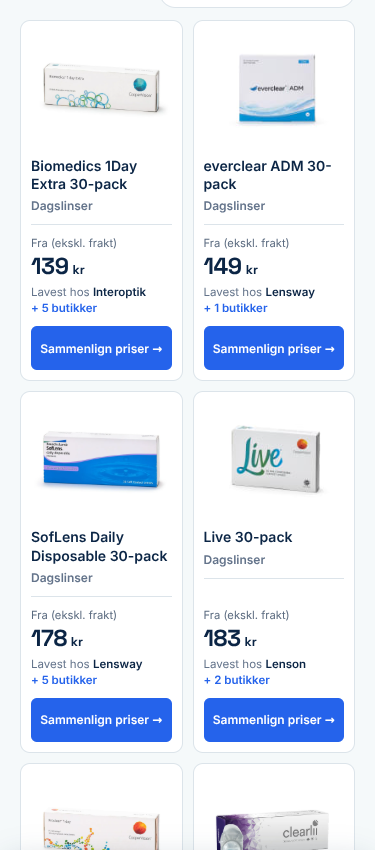
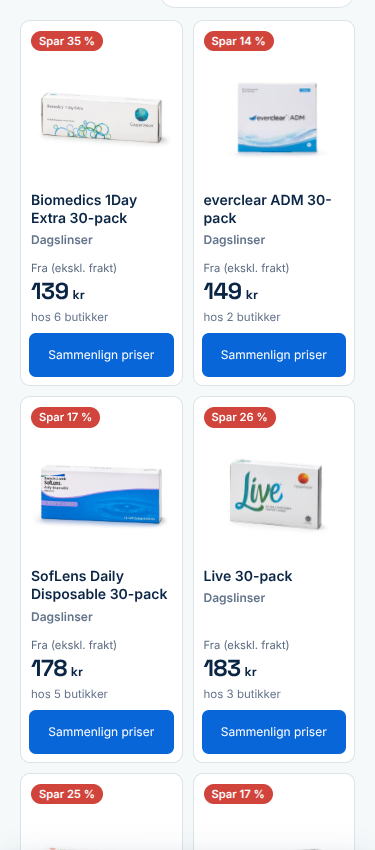
Match reference buttons, store counts and verified mobile savings

Changed region(s): [[0.0587, 0.0306, 0.4693, 1.0], [0.528, 0.0306, 0.9387, 1.0], [0.352, 0.9482, 0.44, 1.0]]

diff --git a/site_generator/render_templates.py b/site_generator/render_templates.py
@@ -406,7 +406,7 @@ a { color: inherit; }
   .topbar, .footer-inner, .footer-disclosure, .footer-bottom { max-width: 1280px; }
 }
 .product-tile-grid { display: grid; grid-template-columns: repeat(auto-fill, minmax(230px, 1fr)); gap: 18px; margin-bottom: 8px; }
-.product-tile { display: flex; flex-direction: column; background: white; border: 1px solid var(--border); border-radius: 16px; overflow: hidden; box-shadow: 0 6px 18px rgba(11, 37, 69, 0.06); transition: transform 0.18s ease, box-shadow 0.18s ease, border-color 0.18s ease; }
+.product-tile { position: relative; display: flex; flex-direction: column; background: white; border: 1px solid var(--border); border-radius: 16px; overflow: hidden; box-shadow: 0 6px 18px rgba(11, 37, 69, 0.06); transition: transform 0.18s ease, box-shadow 0.18s ease, border-color 0.18s ease; }
 .product-tile:hover { transform: translateY(-3px); border-color: #B9C9DD; box-shadow: 0 10px 28px rgba(11, 37, 69, 0.11); }
 .product-tile-image-link { display: block; text-decoration: none; }
 .product-tile-image { height: 190px; margin: 14px 14px 0; border-radius: 12px; background: var(--mist); display: flex; align-items: center; justify-content: center; overflow: hidden; }
@@ -433,26 +433,30 @@ a { color: inherit; }
 .product-tile-store-count { color: var(--blue); font-weight: 700; }
 .product-tile-cta { display: block; margin: 16px 18px 18px; padding: 12px 16px; background: var(--blue); color: white; text-decoration: none; text-align: center; font-size: 0.9rem; font-weight: 700; border-radius: 9px; transition: background 0.15s; }
 .product-tile:hover .product-tile-cta { background: var(--blue-dark); }
+.product-tile-savings { display: none; }
 /* Mobile product lists: reference 003, two cards per row. Keep full names
    and native links; no line clamping or JavaScript-dependent content. */
 @media (max-width: 600px) {
   .product-tile-grid { grid-template-columns: repeat(2, minmax(0, 1fr)); gap: 10px; }
   .product-tile { min-width: 0; border-radius: 10px; box-shadow: none; }
-  .product-tile-image { height: 118px; margin: 8px 8px 0; border-radius: 6px; background: white; }
+  .product-tile-image { height: 126px; margin: 34px 5px 0; border-radius: 6px; background: white; }
   .product-tile-image.has-photo { background: white; }
-  .product-tile-image img { width: 100%; max-height: 110px; }
+  .product-tile-image img { width: 100%; max-height: 126px; }
   .product-tile-body { padding: 10px 10px 0; min-width: 0; }
   .product-tile-name-link { order: -2; overflow-wrap: anywhere; }
   .product-tile-name-link .product-name { font-size: .875rem; line-height: 1.3; min-height: 0; }
   .product-tile-category { order: -1; background: none; color: var(--muted); padding: 0; margin: 5px 0 0; font-size: .75rem; line-height: 1.35; text-transform: none; letter-spacing: 0; }
   .product-tile-manufacturer[href^="/produsent/"], .product-tile-manufacturer[href^="/merke/"], .product-tile-specs-row { display: none; }
-  .product-tile-divider { margin: 10px 0; }
+  .product-tile-divider { height: 0; margin: 12px 0 0; }
   .product-tile-price-label { font-size: .7rem; }
   .product-tile-price-number { font-size: 1.45rem; }
   .product-tile-price-currency { font-size: .8rem; }
   .product-tile-store-line { font-size: .72rem; line-height: 1.4; margin-top: 5px; overflow-wrap: anywhere; }
-  .product-tile-store-count { display: block; }
-  .product-tile-cta { display: flex; align-items: center; justify-content: center; min-height: 44px; box-sizing: border-box; margin: 10px; padding: 8px 4px; font-size: .75rem; line-height: 1.3; border-radius: 6px; }
+  .product-tile:hover .product-tile-cta { background: #0759bf; }
+  .product-tile-savings { display: inline-block; position: absolute; top: 10px; left: 10px; padding: 4px 8px; border-radius: 999px; background: #d0443b; color: #fff; font-size: .7rem; font-weight: 700; line-height: 1.1; cursor: help; }
+  .product-tile-savings:focus-visible { outline: 2px solid var(--ink); outline-offset: 2px; }
+  .product-tile-savings:hover::after, .product-tile-savings:focus::after { content: attr(data-explanation); position: absolute; z-index: 3; top: calc(100% + 6px); left: 0; width: 120px; box-sizing: border-box; padding: 8px; border-radius: 6px; background: var(--ink); color: white; font-size: .7rem; font-weight: 400; line-height: 1.4; }
+  .product-tile-cta { display: flex; align-items: center; justify-content: center; min-height: 44px; box-sizing: border-box; margin: 8px; padding: 8px 4px; font-size: .75rem; font-weight: 500; line-height: 1.3; border-radius: 7px; background: #0866d9; }
 }
 .faq-section { margin-top: 36px; border-top: 1px solid var(--border); padding-top: 24px; }
 .faq-section h2 { font-family: 'Space Grotesk', sans-serif; font-size: 1.1rem; margin: 0 0 16px; }
@@ -2757,7 +2761,8 @@ def _fmt_kr(n: float) -> str:
 def _render_product_tile(*, href: str, name: str, image_url: str | None, fallback_initials: str,
                           category_label: str | None, secondary_line_html: str,
                           lowest: dict | None, other_count: int, data_attr: str = "",
-                          illustration_html: str | None = None, specs_row_html: str = "") -> str:
+                          illustration_html: str | None = None, specs_row_html: str = "",
+                          comparison_offers: list[dict] | None = None) -> str:
     """Delt kortmarkup for merke-/kategori-/tilbehør-/private label-rutenett
     (render_brand_page, render_category_page, render_solution_category_page,
     render_private_label_brand_page) -- én mal, page-spesifikt innhold
@@ -2777,11 +2782,34 @@ def _render_product_tile(*, href: str, name: str, image_url: str | None, fallbac
         image_cls = "product-tile-image"
     category_badge = f'<div class="product-tile-category">{escape(category_label)}</div>' if category_label else ""
 
+    savings_html = ""
+    store_count = max(0, other_count + 1)
+    if comparison_offers is not None:
+        # Same product/pack only. One fresh, in-stock positive price per store.
+        by_store = {}
+        for offer in comparison_offers:
+            price = offer.get("price_nok", 0)
+            if not offer.get("in_stock") or offer.get("is_stale", True) or not math.isfinite(price) or price <= 0:
+                continue
+            key = offer["retailer"].strip().casefold()
+            if key not in by_store or price < by_store[key]["price_nok"]:
+                by_store[key] = offer
+        valid = list(by_store.values())
+        store_count = len(valid)
+        lowest = min(valid, key=lambda o: (o["price_nok"], o["total"]), default=None)
+        if len(valid) >= 2 and not illustration_html:
+            high = max(o["price_nok"] for o in valid)
+            # Floor rather than overstate savings; omit sub-1% differences.
+            percent = math.floor((high - lowest["price_nok"]) / high * 100)
+            if percent >= 1:
+                explanation = f"{percent} % lavere enn høyeste tilgjengelige butikkpris for samme pakning, uten frakt."
+                savings_html = (f'<span class="product-tile-savings" tabindex="0" '
+                                f'aria-label="{escape(explanation)}" data-explanation="{escape(explanation)}">'
+                                f'Spar {percent} %</span>')
+
     if lowest:
         num = f'{lowest["price_nok"]:,.0f}'.replace(",", " ")
-        store_html = f'Lavest hos <span class="product-tile-store-name">{escape(lowest["retailer"])}</span>'
-        if other_count > 0:
-            store_html += f' <span class="product-tile-store-count">+ {other_count} butikker</span>'
+        store_html = f' hos {store_count} {"butikk" if store_count == 1 else "butikker"}'
         price_block = (
             f'<div class="product-tile-price-label">Fra (ekskl. frakt)</div>'
             f'<div class="product-tile-price"><span class="product-tile-price-number">{num}</span>'
@@ -2792,6 +2820,7 @@ def _render_product_tile(*, href: str, name: str, image_url: str | None, fallbac
         price_block = '<div class="product-tile-store-line">Ingen tilbud tilgjengelig</div>'
 
     return f"""<div class="product-tile"{data_attr}>
+  {savings_html}
   <a class="product-tile-image-link" href="{href_esc}"><div class="{image_cls}">{image_block}</div></a>
   <div class="product-tile-body">
     {category_badge}
@@ -2801,7 +2830,7 @@ def _render_product_tile(*, href: str, name: str, image_url: str | None, fallbac
     <div class="product-tile-divider"></div>
     <a class="product-tile-price-link" href="{href_esc}">{price_block}</a>
   </div>
-  <a class="product-tile-cta" href="{href_esc}">Sammenlign priser →</a>
+  <a class="product-tile-cta" href="{href_esc}">Sammenlign priser</a>
 </div>"""
 
 
@@ -6303,6 +6332,7 @@ def render_brand_page(brand_slug: str, brand_label: str, products: list[dict], c
             secondary_line_html=manufacturer_card_line,
             lowest=lowest,
             other_count=len(p["offers"]) - 1,
+            comparison_offers=reconcile_product(p["offers"], now),
             data_attr=f' data-category="{escape(p["category_slug"])}"',
         )
 
@@ -10611,6 +10641,7 @@ def render_category_page(category_slug: str, category: dict, products: list[dict
             secondary_line_html=brand_link,
             lowest=lowest,
             other_count=len(p["offers"]) - 1,
+            comparison_offers=reconcile_product(p["offers"], now),
             data_attr=f' data-brand="{escape(p["brand_slug"])}"{fit_attrs}',
             specs_row_html=spec_row_html_for(p),
         )
@@ -11494,6 +11525,7 @@ def render_solution_category_page(solution_category: str, products: list[dict], 
             secondary_line_html=brand_link,
             lowest=lowest,
             other_count=len(p["offers"]) - 1,
+            comparison_offers=reconcile_product(p["offers"], now),
         )
 
     cat = SOLUTION_CATEGORIES[solution_category]
@@ -11644,6 +11676,7 @@ def render_private_label_brand_page(chain: str, labels: list[dict], products_by_
             secondary_line_html=real_product_link,
             lowest=lowest,
             other_count=len(real_product["offers"]) - 1,
+            comparison_offers=reconcile_product(real_product["offers"], now),
             data_attr=f' data-category="{escape(category_slug)}"',
             illustration_html=render_private_label_illustration(chain, label["slug"]),
         )
@@ -12555,6 +12588,7 @@ def render_family_page(
             fallback_initials=r["product"]["brand_label"][:2].upper(),
             category_label=r["category_label"], secondary_line_html="",
             lowest=r["best"], other_count=max(0, r["n_offers"] - 1),
+            comparison_offers=reconcile_product(r["product"]["offers"], now),
         )
     all_products_html = f'''<h2>Alle produkter i {escape(family_name)}-serien</h2>
   <div class="product-tile-grid">

diff --git a/test_product_tile_savings.py b/test_product_tile_savings.py
@@ -1,0 +1,46 @@
+"""Regression checks for comparison savings on the shared product tile."""
+import sys
+import unittest
+from pathlib import Path
+sys.path.insert(0, str(Path(__file__).parent / 'site_generator'))
+from render_templates import _render_product_tile
+
+
+def offer(store, price, **extra):
+    return dict(retailer=store, price_nok=price, total=price, in_stock=True, is_stale=False, **extra)
+
+
+def tile(offers):
+    return _render_product_tile(href='/product/', name='Example 30-pack', image_url=None,
+        fallback_initials='EX', category_label='Dagslinser', secondary_line_html='',
+        lowest=None, other_count=99, comparison_offers=offers)
+
+
+class ProductTileSavingsTests(unittest.TestCase):
+    def test_filters_unavailable_and_stale_and_counts_unique_stores(self):
+        stale=offer('Old', 1000); stale['is_stale']=True
+        unavailable=offer('Unavailable', 5000); unavailable['in_stock']=False
+        html=tile([offer('A', 100), offer('A', 110), offer('B', 200), stale, unavailable])
+        self.assertIn('Spar 50 %', html)
+        self.assertIn('hos 2 butikker', html)
+        self.assertIn('samme pakning, uten frakt', html)
+        self.assertNotIn('Lavest hos', html)
+        self.assertNotIn('priser →', html)
+
+    def test_one_store_equal_prices_or_tiny_difference_have_no_badge(self):
+        for offers in [[offer('A',100)], [offer('A',100),offer('B',100)],
+                       [offer('A',100),offer('B',100.5)]]:
+            self.assertNotIn('class="product-tile-savings"', tile(offers))
+
+    def test_invalid_or_stale_only_means_no_price(self):
+        stale=offer('Old', 100); stale['is_stale']=True
+        html=tile([stale,offer('Zero',0),offer('Invalid',float('nan'))])
+        self.assertIn('Ingen tilbud tilgjengelig', html)
+        self.assertNotIn('class="product-tile-savings"', html)
+
+    def test_percentage_never_rounds_up(self):
+        self.assertIn('Spar 33 %', tile([offer('A',100),offer('B',150)]))
+
+
+if __name__ == '__main__':
+    unittest.main()

diff --git a/docs/design/mobile-product-cards-003/STATUS.md b/docs/design/mobile-product-cards-003/STATUS.md
@@ -1,29 +1,34 @@
 # Mobilkort – referanse 003
 
-Dato: 10. oktober 2026. Status: implementert på arbeidsgren, ikke publisert.
-Grunnlag: main cdb1da843c3afbd6fddf384ee045f4b1d14f6f09.
+Dato: 10. oktober 2026. Status: revidert forhåndsvisning, ikke publisert.
+Grunnlag: main cdb1da843c3afbd6fddf384ee045f4b1d14f6f09. PR #6 er utkast.
 
-## Beslutning
+## Brukerens korrigering
 
-Brukeren valgte designarkivets bilde 003 som kortreferanse, med to kort i bredden på mobil. Referansens priseksempler og spareprosenter er ikke faktiske data.
+To kort per rad på mobil. Knappen skal ligne bilde 003: jevn blåfarge, lettere tekst, ingen pil. Under prisen skal det kun stå «hos X butikker», uten butikknavn og uten «+ X butikker». Rødt sparemerke over produktbildet.
 
-## Endring
+## Implementert
 
-Kun CSS i den delte produktkortmalen: to like kolonner opptil 600 px, kompakte bilder og kort, fullstendige produktnavn, tydelige priser og blå sammenligningslenker med minst 44 px høyde. Produsent-/merkeekstralinjer og tekniske spesifikasjonsrader skjules på mobil. Lenker til private-label-ekvivalenter beholdes. Desktopregler er uendret. Ingen nye sparemerker eller overstrøkne priser.
+- To mobilkolonner opptil 600 px, hele produktnavn, større bildefelt og kompakte kort.
+- Blå knapp #0866d9, skriftvekt 500, avrunding 7 px, minst 44 px trykkhøyde.
+- Rødt «Spar X %»-merke på mobil. Rødfargen #d0443b gir hvit tekst kontrast 4,59:1.
+- Spar = (høyeste minus laveste pris) / høyeste pris for samme produkt/pakning, uten frakt. Hele prosent avrundes ned. Bare ferske, positive tilbud på lager og én pris per butikk inngår. Ingen merke ved én butikk, like priser eller forskjell under 1 %. Ingen på private-label-illustrasjoner.
+- Merkets forklaring er tilgjengelig ved fokus/tapp/hover og som aria-label. Det er prisforskjell mellom butikker, ikke førprisrabatt. Ingen overstrøket førpris.
+- Butikkantall og kortets laveste pris bruker samme gyldige tilbudsutvalg. Butikknavn er fjernet fra kortenes prislinje på alle skjermbredder. CTA-pilen er fjernet i den delte malen. Desktopens øvrige layout er bevart.
 
 ## Kontroll
 
-- Lokal før/etter fra samme katalog og samme referansetid: 2026-10-10T02:01:37.063164+00:00. Skjermbildene viser dette lagrede prissnapshotet, ikke verifiserte sanntidspriser.
-- 426 HTML-filer identiske utenfor style-blokkene: innhold, lenker, schema, metadata og JavaScript uendret.
-- Byggevalidator: 201/201 produkter har priser, OK.
-- test_seo_schema.py og test_product_seo_growth.py: alle bestått.
-- Chromium/Playwright: kategori dagslinser og merke Acuvue før/etter ved 320, 375, 390, 600, 768, 1024 og 1440 px. To kort per rad ved alle mobilbredder; ingen overflyt i kort. Se layout-checks.json.
-- Eksisterende side-overflyt på Acuvue ved 320 px finnes både før og etter. Ingen ny side-overflyt ved øvrige testbredder.
-- Bilder lastet fra eksisterende lokale filer/eksisterende feed-URL-er til midlertidig testcache. Ingen nye produktbilder lagt til. Eksterne scripts og webfonter blokkert i nettlesertesten; systemfont-fallback brukt i skjermbildene.
-- Lokal bygging bruker tom clickout-mapping for å unngå API-kall. Produksjonens affiliateflyt er ikke ende-til-ende-testet; koden og lenkemarkup er uendret.
+- Samme lagrede katalog og referansetid som første forhåndsvisning: 2026-10-10T02:01:37.063164+00:00. Dette er ikke verifiserte sanntidspriser.
+- 426 sider: schema/skript, canonical og HTML-lenkemål uendret, kontrollert med HTML-parser.
+- Byggevalidator OK: 201/201 produkter har priser.
+- test_seo_schema.py og test_product_seo_growth.py: bestått. Fire nye tester i test_product_tile_savings.py dekker ugyldige/gamle/utsolgte tilbud, unike butikker, ett tilbud, like priser og prosentavrunding.
+- Chromium/Playwright før/etter ved 320/375/390/600/768/1024/1440 px på dagslinser og Acuvue: to mobilkolonner uten kort-overflyt. Eksisterende side-overflyt på Acuvue ved 320 px er uendret.
+- Kontroll ved 375 px uten JavaScript på begge sider: to kolonner, ingen overflyt i kort.
+- Skjermbilder bruker eksisterende bilder fra lokale filer og midlertidig cache av eksisterende feed-URL-er. Ingen nye produktbilder. Eksterne scripts/webfonter blokkert; systemfont-fallback i skjermbildene.
+- Bygg bruker tom clickout-mapping. Produksjonens affiliateflyt er ikke ende-til-ende-testet; lenkemål og scripts er uendret.
 
-## Åpent og neste steg
+## Gjenstår
 
-Visuell vurdering av de vedlagte mobilskjermbildene før publiseringsgodkjenning. Bedre partnerbilder og egen bildehosting er separat gjenstående arbeid: avklar gjenbruk/egen hosting per kilde, behold kilde og rettighet internt, bruk egne beskrivende bilde-URL-er og korrekte alt-tekster/strukturerte bildereferanser.
+Brukerens visuelle vurdering før publisering. Bedre partnerbilder og egen bildehosting er fortsatt åpent; gjenbruk/egen hosting avklares per kilde, kilde og rettighet beholdes internt.
 
-Ingen merge, deploy eller produksjonsendring er utført. Main-push/merge utløser publisering og krever brukerens godkjenning.
+Ingen merge, deploy eller produksjonsendring. Main-merge utløser publisering og krever uttrykkelig godkjenning.
